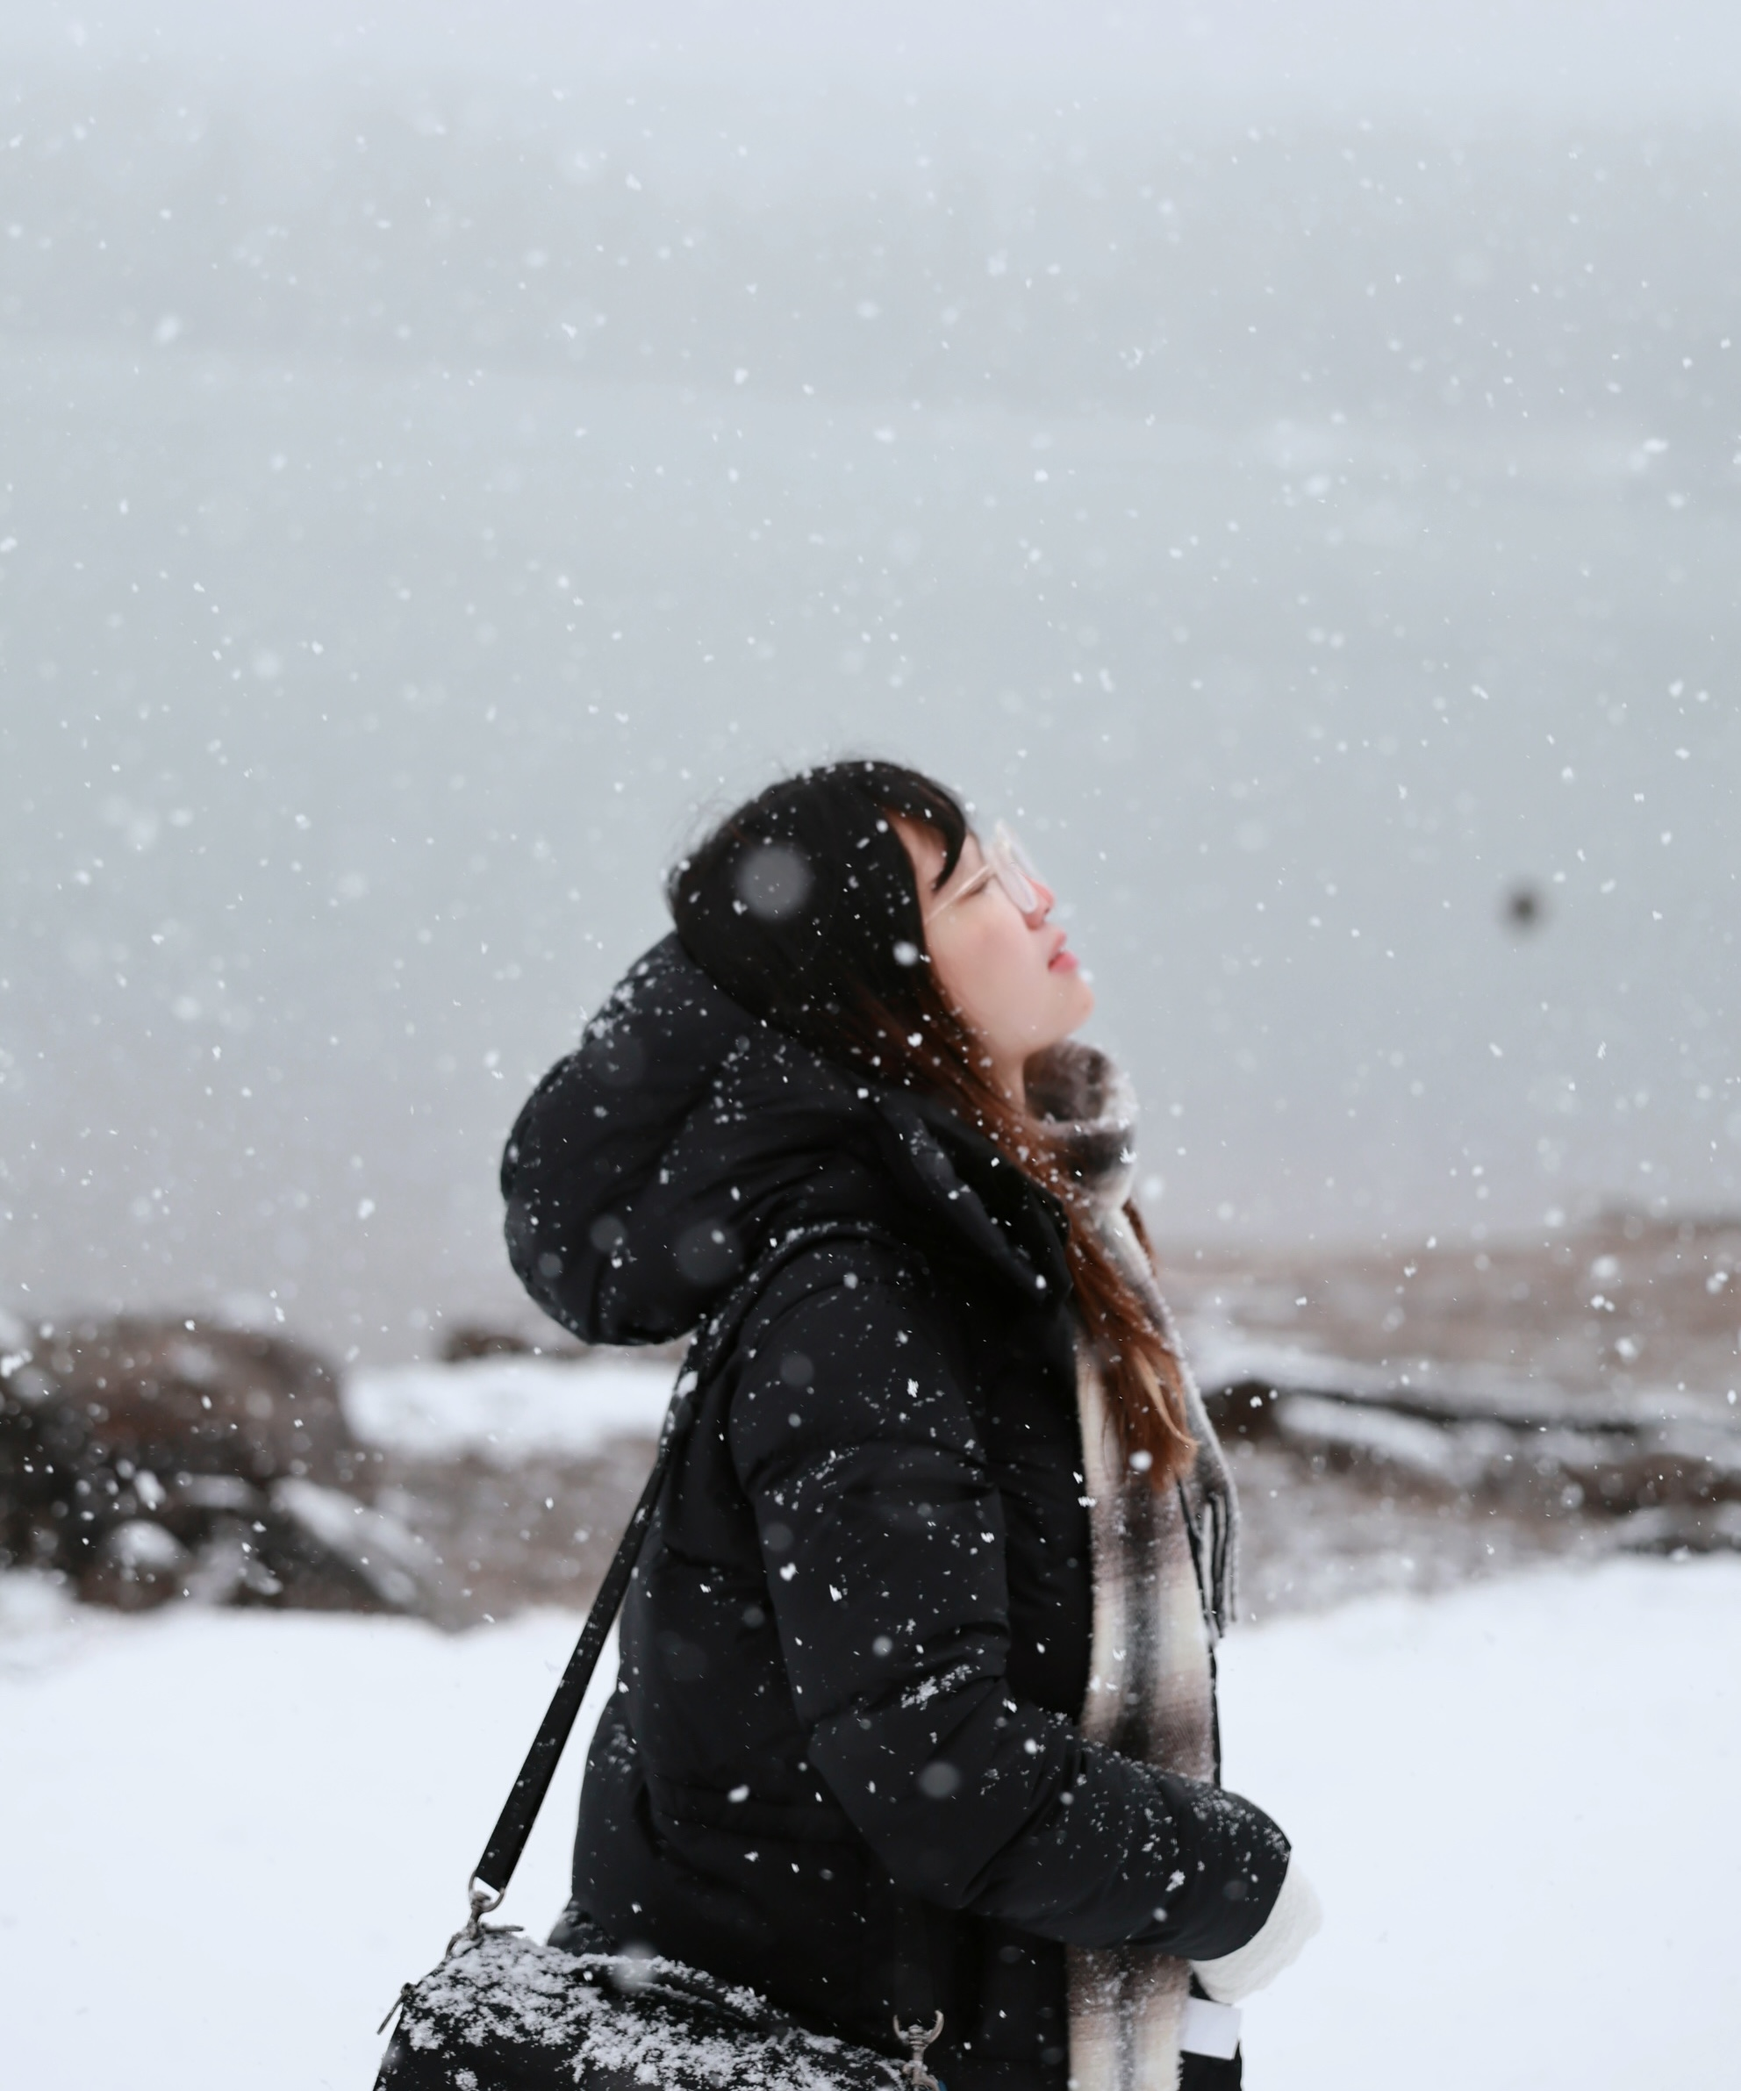
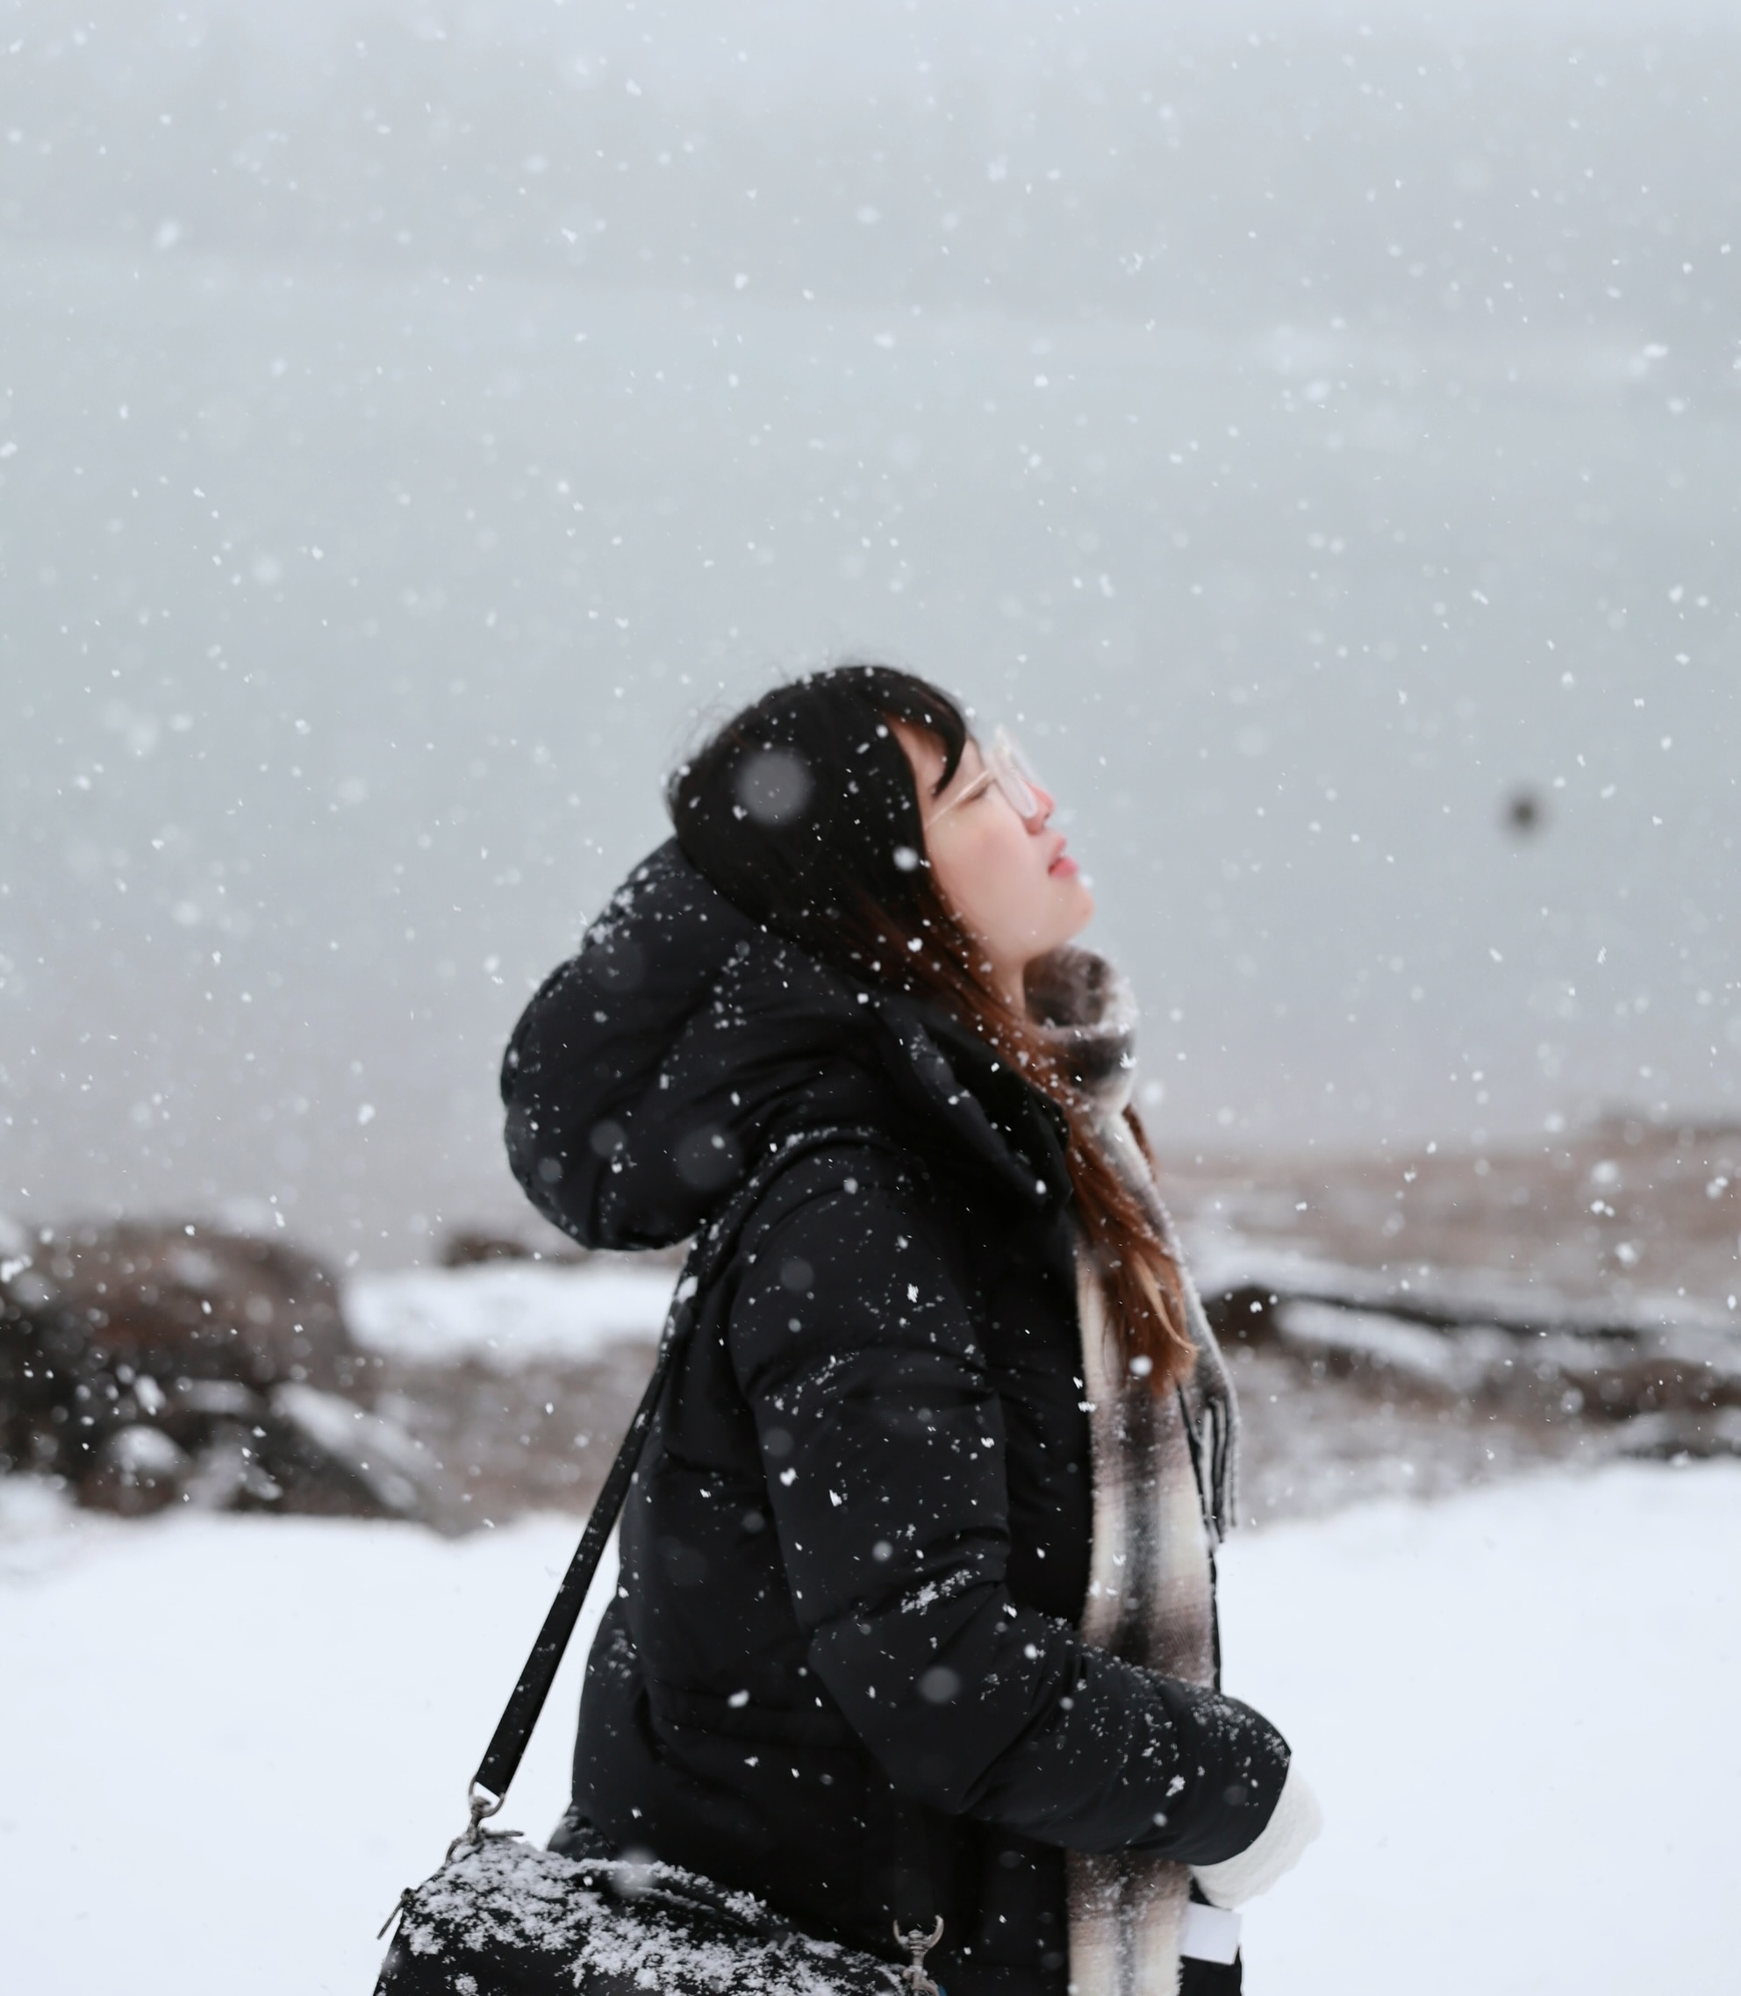
minor updates

diff --git a/scripts/main.js b/scripts/main.js
@@ -91,6 +91,7 @@ class LanguageManager {
                 inne_hero_line2: '',
                 inne_hero_line3: 'and let time deliver the answers.',
                 home_hero_desc: 'Keep your curiosity for the world, and let time deliver the answers.',
+                home_photo_credit: 'Photo taken by Zihao Jing, Model & Direction: Yifu Ding, November 2025, Lake Minnewanka, Canadian Rockies',
                 
                 btn_view_research: 'Research',
                 btn_view_research_2: 'View Research →',
@@ -147,6 +148,7 @@ class LanguageManager {
                 // Research Page
                 research_title: 'Research',
                 research_description: 'PhD Candidate at Beihang University, specializing in neural network compression and model quantization. Making deep learning more efficient and accessible for real-world deployment.',
+                research_photo_credit: 'Photo taken by Yifu Ding in Yellowknife, Canada, December 2025 - Northern Lights',
                 research_focus_title: 'Research Focus',
                 research_focus_1_bold: 'Efficiency optimization for large foundation models',
                 research_focus_1_rest: ', especially LLMs, to reduce memory footprint, latency, and cost with minimal quality loss.',
@@ -179,6 +181,7 @@ class LanguageManager {
                 studio_filter_reading: 'Reading',
                 studio_filter_apps: 'Apps',
                 photography_title: 'Static Photos 📸',
+                studio_photo_credit: 'Photo taken by Yifu Ding, December 2025, Pípila Hill, Guanajuato, Mexico',
                 photography_series: 'Series',
                 reading_title: 'Reading',
                 reading_highlights: 'Highlights & Notes',
@@ -206,6 +209,7 @@ class LanguageManager {
                 
                 // Contact Page
                 contact_title: 'Leave a message 💬',
+                contact_photo_credit: 'Photo taken by Zihao Jing, Model & Direction: Yifu Ding, November 2025, Lake Minnewanka, Canadian Rockies',
                 contact_description: 'You can use the form below to send me a message regarding research collaborations, academic discussions, or related inquiries.', 
                 contact_research_collab: 'Research Collaboration',
                 contact_research_desc: 'Open to collaborations on model compression, quantization, and efficient deep learning.',
@@ -276,6 +280,7 @@ class LanguageManager {
                 inne_hero_line2: '把好奇心留给世界，',
                 inne_hero_line3: '把答案交给时间。',
                 home_hero_desc: '把好奇心留给世界，把答案交给时间。',
+                home_photo_credit: '照片由景子昊拍摄，模特&指导：丁一芙，2025年11月，明尼旺卡湖，加拿大落基山脉',
                 
                 btn_view_research: '研究工作',
                 btn_view_research_2: '查看研究 →',
@@ -331,6 +336,7 @@ class LanguageManager {
                 // 研究页面
                 research_title: '研究',
                 research_description: '北京航空航天大学博士研究生，专注于神经网络压缩和模型量化。致力于让深度学习更高效、更易于实际部署。',
+                research_photo_credit: '照片由丁一芙拍摄于2025年12月加拿大黄刀镇 - 极光',
                 research_focus_title: '研究重点',
                 research_focus_1_bold: '大型基础模型的效率优化',
                 research_focus_1_rest: '，尤其是大语言模型，在最小化质量损失的前提下减少内存占用、延迟和成本，涵盖模型压缩和推理时策略（如解码和计算控制）。',
@@ -363,6 +369,7 @@ class LanguageManager {
                 studio_filter_reading: '阅读',
                 studio_filter_apps: '应用',
                 photography_title: '静态照片',
+                studio_photo_credit: '照片由丁一芙拍摄，2025年12月，墨西哥瓜纳华托皮皮拉山',
                 photography_series: '系列',
                 reading_title: '阅读',
                 reading_highlights: '摘录与笔记',
@@ -390,6 +397,7 @@ class LanguageManager {
                 
                 // 联系页面
                 contact_title: '留言',
+                contact_photo_credit: '照片由景子昊拍摄，模特&指导：丁一芙，2025年11月，明尼旺卡湖，加拿大落基山脉',
                 contact_description: '您可以使用以下表格向我发送有关研究合作、学术讨论或相关咨询的信息。',
                 contact_research_collab: '研究合作',
                 contact_research_desc: '欢迎在模型压缩、量化和高效深度学习方面进行合作。',

diff --git a/scripts/gallery.js b/scripts/gallery.js
@@ -348,10 +348,10 @@ const galleryData = {
             },
             { 
                 file: '1-1.jpeg', 
-                title: '叶脉的光',
-                titleEn: 'Veins of Light',
-                caption: '细密的叶脉在光里浮现，像被放大的自然纹理。',
-                captionEn: 'Delicate leaf veins surface in the light, like nature’s textures magnified.',
+                title: '叶脉的光和瓢虫',
+                titleEn: 'Veins of Light and Ladybugs',
+                caption: '细密的叶脉在光里浮现，像被放大的自然纹理。瓢虫在叶子上爬行。',
+                captionEn: 'Delicate leaf veins surface in the light, like nature’s textures magnified. Ladybugs are crawling on the leaves.',
                 bgColor: '#C8D8C0' 
             },
             { 
@@ -396,10 +396,10 @@ const galleryData = {
             },
             { 
                 file: '6.jpeg', 
-                title: '静水与植被',
-                titleEn: 'Still Water and Greens',
-                caption: '平静的水面与岸边植被相互映照。',
-                captionEn: 'Still water mirrors the greenery along the shore.',
+                title: '暴风后的植被',
+                titleEn: 'Greens After Storm',
+                caption: '暴风后植被被吹断，城市比森林更容易被摧毁。',
+                captionEn: 'After the storm, the vegetation is broken, the city is easier to destroy than the forest.',
                 bgColor: '#B8C8D8' 
             }
         ]

diff --git a/styles/components.css b/styles/components.css
@@ -1449,6 +1449,21 @@ html, body {
     width: 100%;
     height: 100%;
     overflow: hidden;
+    position: relative;
+  }
+  
+  .split-hero-media .photo-credit {
+    position: absolute;
+    bottom: 16px;
+    right: 24px;
+    font-size: 12px;
+    z-index: 10;
+  }
+  
+  .photo-credit-dark {
+    color: rgba(0, 0, 0, 0.85);
+    background: rgba(255, 255, 255, 0.85);
+    text-shadow: none;
   }
 
   .split-hero-right .split-hero-media img {
@@ -2165,6 +2180,20 @@ html, body {
     width: 100%;
     height: 100%;
     z-index: 1;
+  }
+  
+  .photo-credit {
+    position: absolute;
+    bottom: 16px;
+    right: 24px;
+    font-size: 12px;
+    color: rgba(255, 255, 255, 0.9);
+    background: rgba(0, 0, 0, 0.4);
+    padding: 6px 12px;
+    border-radius: 4px;
+    backdrop-filter: blur(4px);
+    z-index: 10;
+    text-shadow: 0 1px 2px rgba(0, 0, 0, 0.5);
   }
   
   .studio-hero-overlay {
@@ -4150,6 +4179,18 @@ html, body {
   /* Research focus list - dark mode */
   [data-theme="dark"] .hero-focus-list li {
     color: #d1d5db;
+  }
+  
+  /* Photo credit - dark mode */
+  [data-theme="dark"] .photo-credit {
+    color: rgba(255, 255, 255, 0.95);
+    background: rgba(0, 0, 0, 0.5);
+  }
+  
+  [data-theme="dark"] .photo-credit-dark {
+    color: rgba(255, 255, 255, 0.95);
+    background: rgba(0, 0, 0, 0.5);
+    text-shadow: 0 1px 2px rgba(0, 0, 0, 0.5);
   }
   
   /* Video section backgrounds - dark mode */

diff --git a/styles/gallery.css b/styles/gallery.css
@@ -773,3 +773,73 @@
         font-size: 14px;
     }
 }
+
+/* Dark mode styles */
+[data-theme="dark"] .gallery-view-btn {
+    border: 1px solid #4b5563;
+    background: #1f2937;
+    color: #d1d5db;
+}
+
+[data-theme="dark"] .gallery-view-btn:hover {
+    border-color: #6b7280;
+    background: #374151;
+    color: #f3f4f6;
+}
+
+[data-theme="dark"] .gallery-view-btn.active {
+    background: #f3f4f6;
+    border-color: #f3f4f6;
+    color: #0f1419;
+}
+
+[data-theme="dark"] .back-link {
+    color: #9ca3af;
+}
+
+[data-theme="dark"] .back-link:hover {
+    color: #f3f4f6;
+}
+
+[data-theme="dark"] .gallery-location {
+    color: #9ca3af;
+}
+
+[data-theme="dark"] .gallery-title {
+    color: #f3f4f6;
+}
+
+[data-theme="dark"] .gallery-count {
+    color: #9ca3af;
+}
+
+[data-theme="dark"] .gallery-detailed-group-title,
+[data-theme="dark"] .gallery-grid-group-title {
+    color: #f3f4f6;
+}
+
+[data-theme="dark"] .gallery-caption {
+    background: #1f2937;
+}
+
+[data-theme="dark"] .gallery-caption-title {
+    color: #f3f4f6;
+}
+
+[data-theme="dark"] .gallery-caption-text {
+    color: #d1d5db;
+}
+
+[data-theme="dark"] .gallery-caption-meta {
+    color: #9ca3af;
+    border-top-color: #374151;
+}
+
+[data-theme="dark"] .gallery-grid-caption {
+    color: #d1d5db;
+}
+
+[data-theme="dark"] .gallery-image-wrapper,
+[data-theme="dark"] .gallery-grid-image-wrapper {
+    background: #1f2937;
+}

diff --git a/contact.html b/contact.html
@@ -68,6 +68,7 @@
     <section class="studio-hero-fullscreen contact-hero">
         <div class="studio-hero-image">
             <img src="src/photos/rocky/IMG_0154.JPG" alt="Contact" loading="eager">
+            <div class="photo-credit" data-i18n="contact_photo_credit">Photo taken by Zihao Jing, Model & Direction: Yifu Ding, November 2025, Lake Minnewanka, Canadian Rockies</div>
         </div>
         <div class="studio-hero-overlay">
             <div class="studio-hero-content contact-hero-content">

diff --git a/index.html b/index.html
@@ -110,6 +110,7 @@
                 <div class="split-hero-right" aria-hidden="true">
                     <div class="split-hero-media">
                         <img src="styles/IMG_2172.JPG" alt="Portrait" loading="eager" decoding="async">
+                        <div class="photo-credit photo-credit-dark" data-i18n="home_photo_credit">Photo taken by Zihao Jing, Model & Direction: Yifu Ding, November 2025, Canadian Rockies</div>
                     </div>
                 </div>
             </div>

diff --git a/research.html b/research.html
@@ -60,6 +60,7 @@
     <section class="studio-hero-fullscreen research-hero" aria-label="Research hero">
         <div class="studio-hero-image">
             <img src="src/photos/yellowknife/IMG_1734.JPG" alt="Research" loading="eager">
+            <div class="photo-credit" data-i18n="research_photo_credit">Photo taken by Yifu Ding in Yellowknife, Canada, December 2025 - Northern Lights</div>
         </div>
 
         <div class="studio-hero-overlay">

diff --git a/studio.html b/studio.html
@@ -60,6 +60,7 @@
     <section class="studio-hero-fullscreen">
         <div class="studio-hero-image">
             <img src="src/photos/guanajuato/guana1.JPG" alt="Studio" loading="eager">
+            <div class="photo-credit" data-i18n="studio_photo_credit">Photo taken by Yifu Ding, December 2025, Pípila Hill, Guanajuato, Mexico</div>
         </div>
         <div class="studio-hero-overlay">
             <div class="studio-hero-content">
